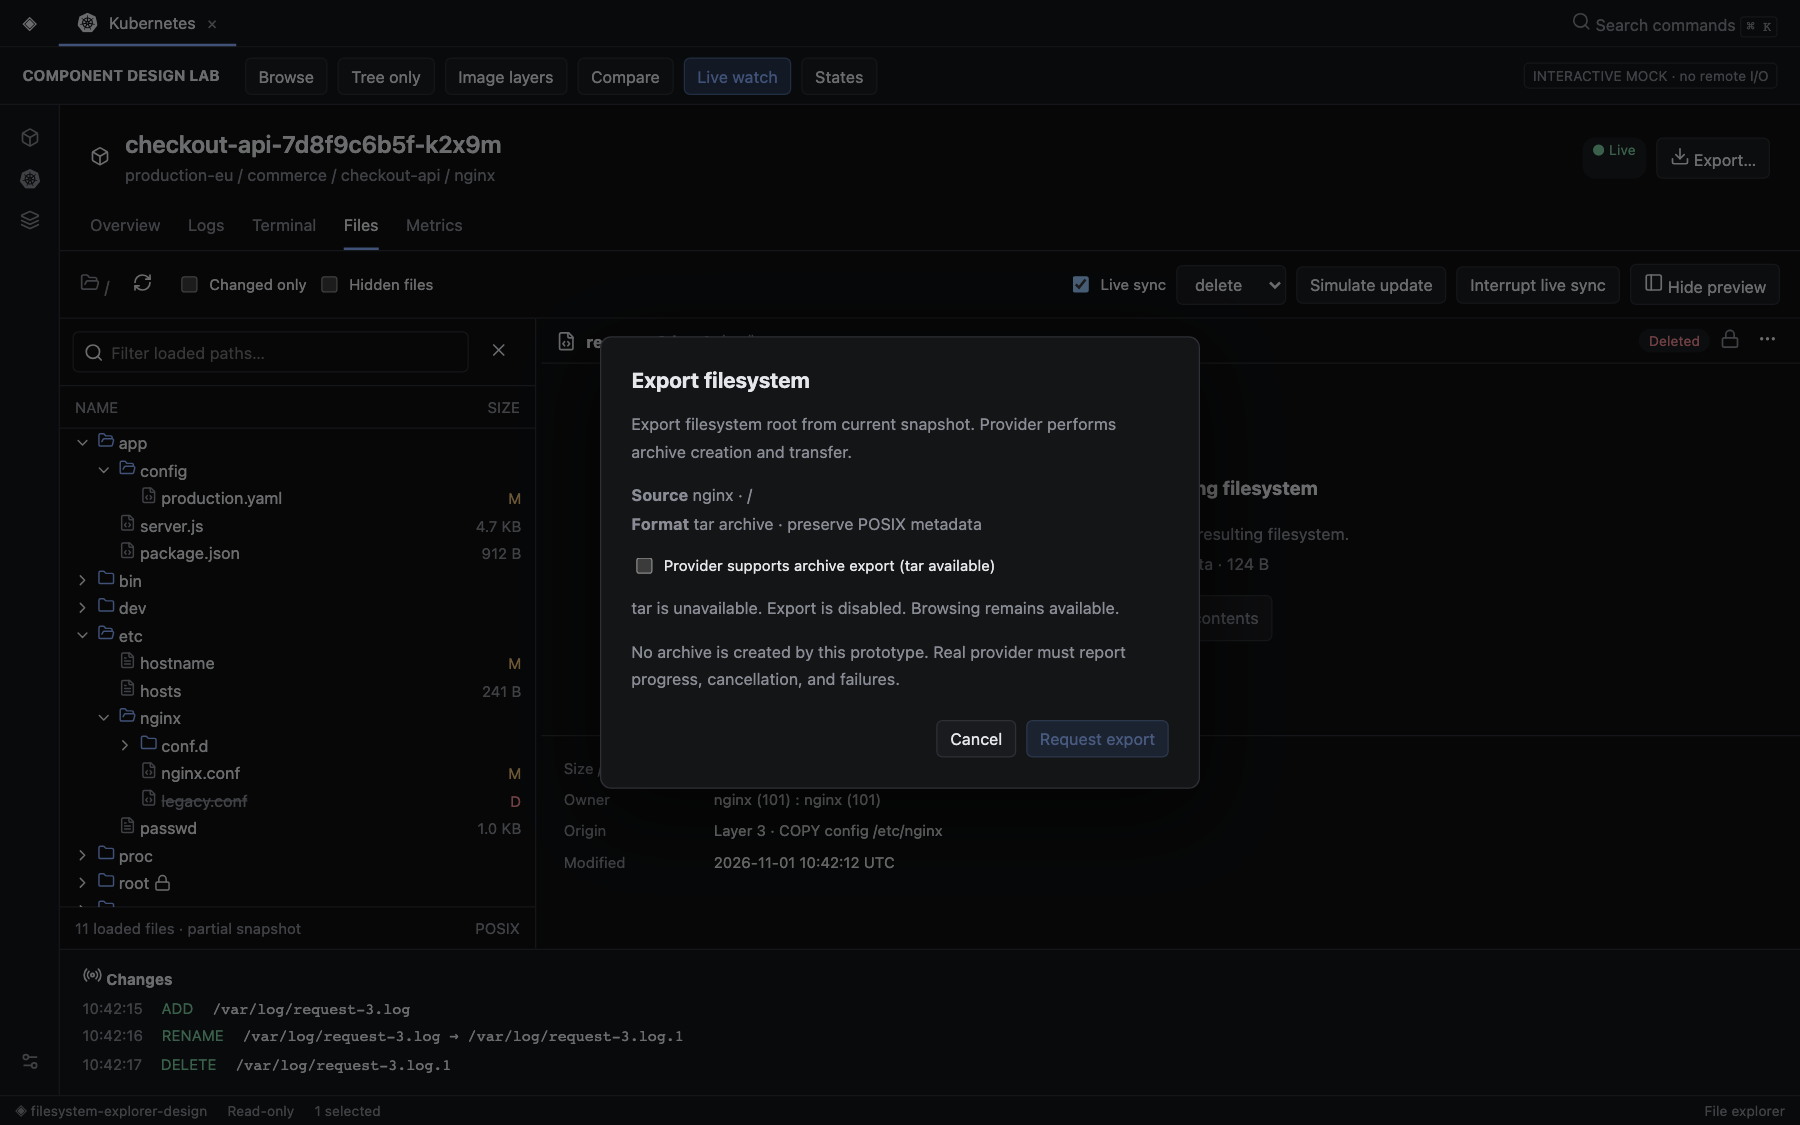
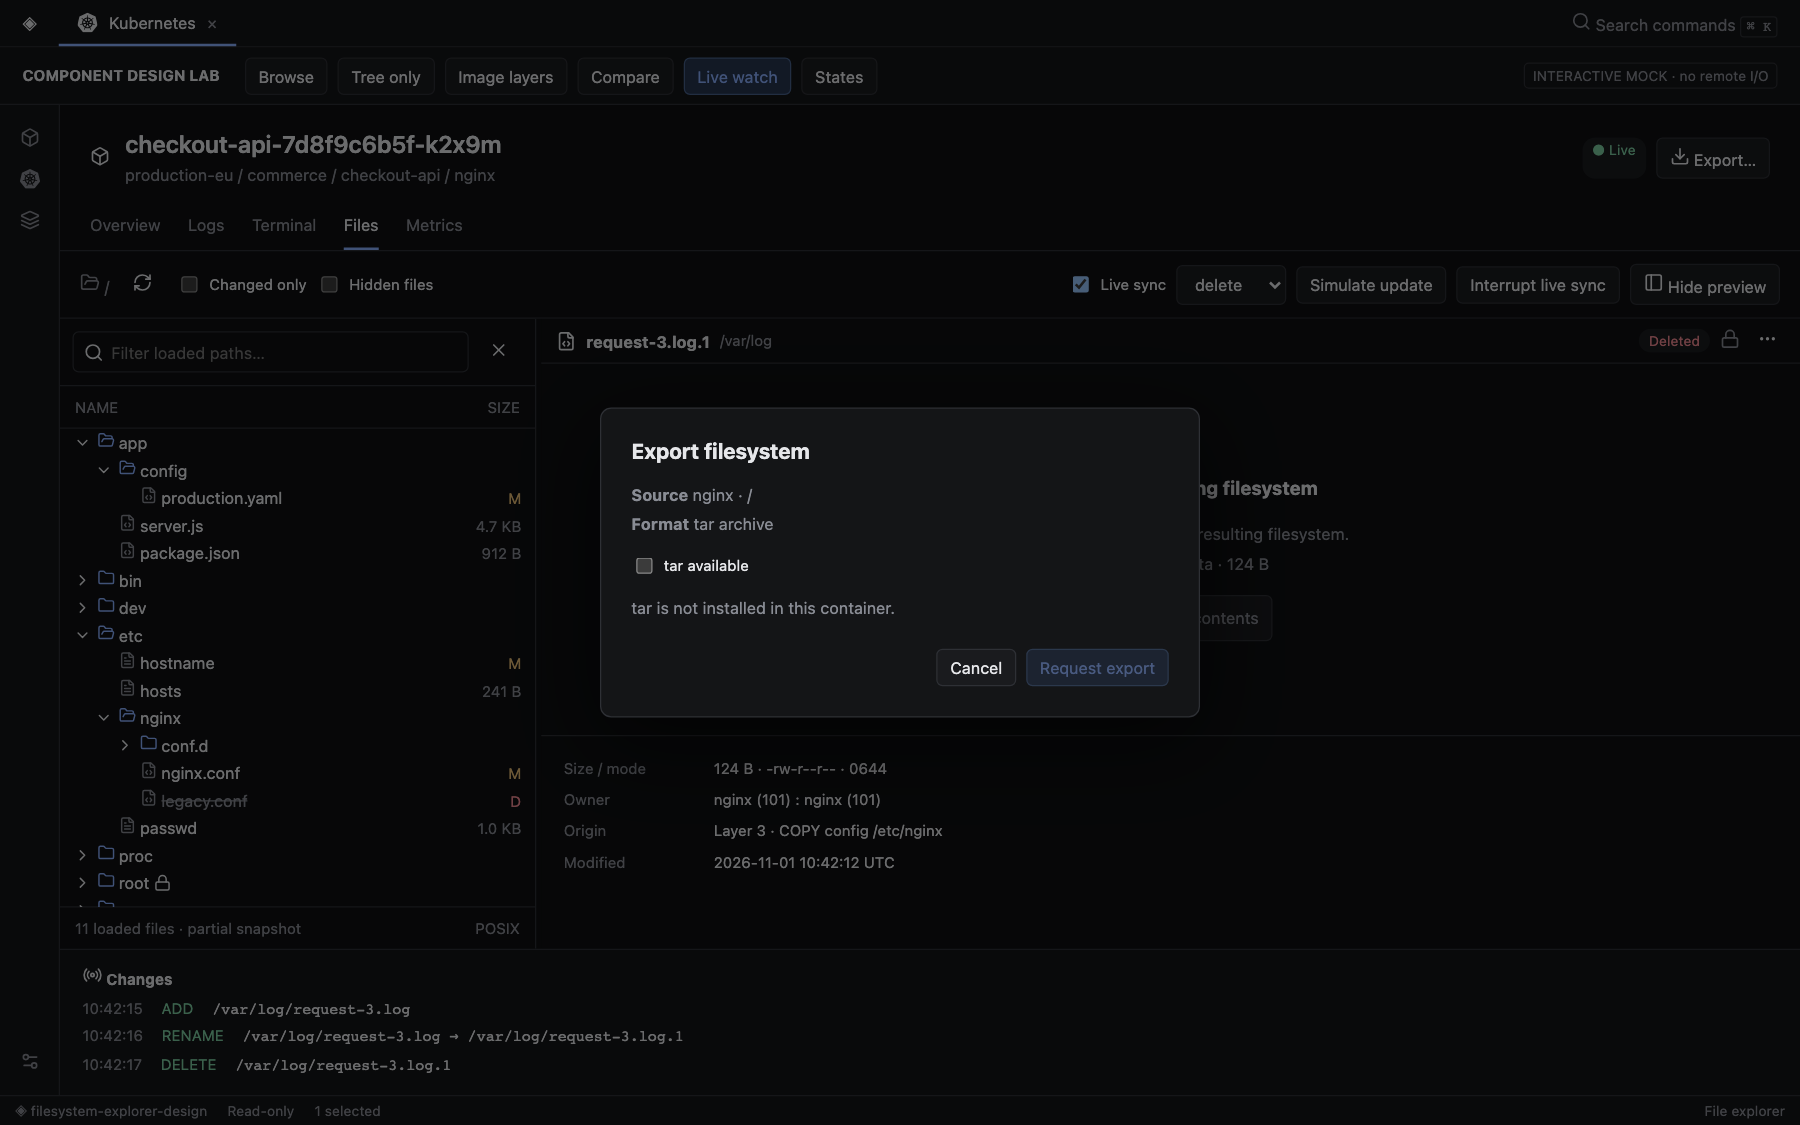
assets: remove implementation copy from explorer dialogs

diff --git a/prototype/index.html b/prototype/index.html
@@ -77,7 +77,7 @@ function preview(){
   if(!n)return '<section class="preview"><div class="empty"><h2>Select a file</h2></div></section>';
   const deleted=n.change==='D',dir=n.kind==='dir',locked=n.kind==='locked';let body;
   if(deleted)body='<div class="empty">'+I('LuFile')+'<h2>Deleted '+(n.liveDeleted?'from running filesystem':'in layer 3')+'</h2>This file is absent from the resulting filesystem.<br>Previous metadata · '+size(n.size)+'<p><button id="previous">View previous contents</button></p></div>';
-  else if(locked)body='<div class="empty">'+I('LuLock')+'<h2>Permission denied</h2>Provider cannot list /root as uid 101.<br>Other directories remain available.</div>';
+  else if(locked)body='<div class="empty">'+I('LuLock')+'<h2>Permission denied</h2>Cannot open /root as uid 101.</div>';
   else if(dir)body='<div class="empty">'+I('LuFolderOpen')+'<h2>'+esc(n.name)+'</h2>Directory</div>';
   else if(n.kind==='link')body='<div class="empty">'+I('LuLink')+'<h2>Symbolic link</h2>/bin/sh → /bin/busybox<p><button id="follow">Reveal target metadata</button></p></div>';
   else if(state.mode==='Compare'&&n.name==='nginx.conf')body='<div class="diffbar"><span>BASE IMAGE · read-only</span><span>RUNNING SNAPSHOT · +3 −2 lines</span></div><div class="diffcols"><div class="code">'+lines(base,true)+'</div><div class="code">'+lines(current,true)+'</div></div>';
@@ -149,23 +149,24 @@ function renderOverlay(){
   if(!state.modal){root.innerHTML='';return}
   const exp=state.modal==='export';
   let content;
-  if(exp)content=`<p>Export filesystem root from current snapshot. Provider performs archive creation and transfer.</p><p><strong>Source</strong> nginx · /<br><strong>Format</strong> tar archive · preserve POSIX metadata</p><label class="toggle"><input id="tar" type="checkbox" ${state.tar?'checked':''}> Provider supports archive export (tar available)</label>${!state.tar?'<p class="amber">tar is unavailable. Export is disabled. Browsing remains available.</p>':''}<p class="muted">No archive is created by this prototype. Real provider must report progress, cancellation, and failures.</p>`;
+  if(exp)content=`<p><strong>Source</strong> nginx · /<br><strong>Format</strong> tar archive</p><label class="toggle"><input id="tar" type="checkbox" ${state.tar?'checked':''}> tar available</label>${!state.tar?'<p class="amber">tar is not installed in this container.</p>':''}`;
   else if(state.modal==='Previous snapshot contents')content='<p class="muted">'+esc(state.selected)+' · previous version</p><pre style="overflow:auto">'+esc((node?.previous||fileContents(node)).join('\n'))+'</pre>';
+  else if(state.modal==='Metadata contract')content=`<dl class="kv"><dt>Path</dt><dd>${esc(node?.path||'—')}</dd><dt>Kind</dt><dd>${esc(node?.kind||'—')}</dd><dt>Size</dt><dd>${size(node?.size)}</dd><dt>Layer</dt><dd>${node?.layer??'—'}</dd></dl>`;
   else if(state.modal==='Copy path')content=`<p>Selected path, ready to copy:</p><input aria-label="Path to copy" style="width:100%;padding:8px;background:var(--bg);border:1px solid var(--line)" readonly value="${esc(state.selected)}">`;
   else {
     const descriptions={
-      'Metadata contract':'Stable node ID, POSIX path, file kind, size, mode, owner, timestamps, layer provenance, and change status come from provider metadata. No credentials enter tree state.',
-      'Archive capability':'archiveExport: unavailable · reason: missing-tool · requiredTool: tar. Provider owns transport and authorization.',
-      'Download request':'Mock download request recorded. Consumer supplies file transfer, progress, cancellation, and error reporting. No real file is downloaded.',
-      'Provider retry':'Mock retry request recorded. Provider owns reconnect and authorization. No connection occurs.',
-      'Load cancelled':'Mock branch load cancelled. Other loaded branches remain available.',
-      'Link target /bin/busybox':'Target kind: regular executable · /bin/busybox · layer 0. This mock shows metadata only; provider must enforce root boundaries.',
-      'Export request recorded':'Mock archive request recorded for nginx · /. No export was performed. Provider supplies transfer progress and cancellation.',
-      'Snapshot refreshed':'Provider snapshot refreshed in this simulation.'
+      'Archive capability':'tar is not installed in this container.',
+      'Download request':'Download is unavailable in this prototype.',
+      'Provider retry':'Connection unavailable in this prototype.',
+      'Load cancelled':'Loading cancelled.',
+      'Link target /bin/busybox':'/bin/busybox · executable · layer 0.',
+      'Export request recorded':'Export is unavailable in this prototype. No archive was created.',
+      'Snapshot refreshed':'Files refreshed.'
     };
     content='<p>'+esc(descriptions[state.modal]||state.modal)+'</p>';
   }
-  root.innerHTML=`<div class="modalback"><section role="dialog" aria-modal="true" aria-label="${exp?'Export filesystem':esc(state.modal)}" class="modal"><h2>${exp?'Export filesystem':esc(state.modal)}</h2>${content}<div class="buttons"><button id="close">${exp?'Cancel':'Close'}</button>${exp?`<button id="confirmexport" class="active" ${!state.tar?'disabled':''}>Request export</button>`:''}</div></section></div>`;
+  const title=exp?'Export filesystem':state.modal==='Metadata contract'?'File metadata':state.modal;
+  root.innerHTML=`<div class="modalback"><section role="dialog" aria-modal="true" aria-label="${esc(title)}" class="modal"><h2>${esc(title)}</h2>${content}<div class="buttons"><button id="close">${exp?'Cancel':'Close'}</button>${exp?`<button id="confirmexport" class="active" ${!state.tar?'disabled':''}>Request export</button>`:''}</div></section></div>`;
   document.getElementById('close').onclick=closeOverlay;
   if(exp){document.getElementById('tar').onchange=e=>{state.tar=e.target.checked;renderOverlay()};document.getElementById('confirmexport').onclick=()=>{state.modal='Export request recorded';renderOverlay()}}
   root.querySelector('button').focus();
